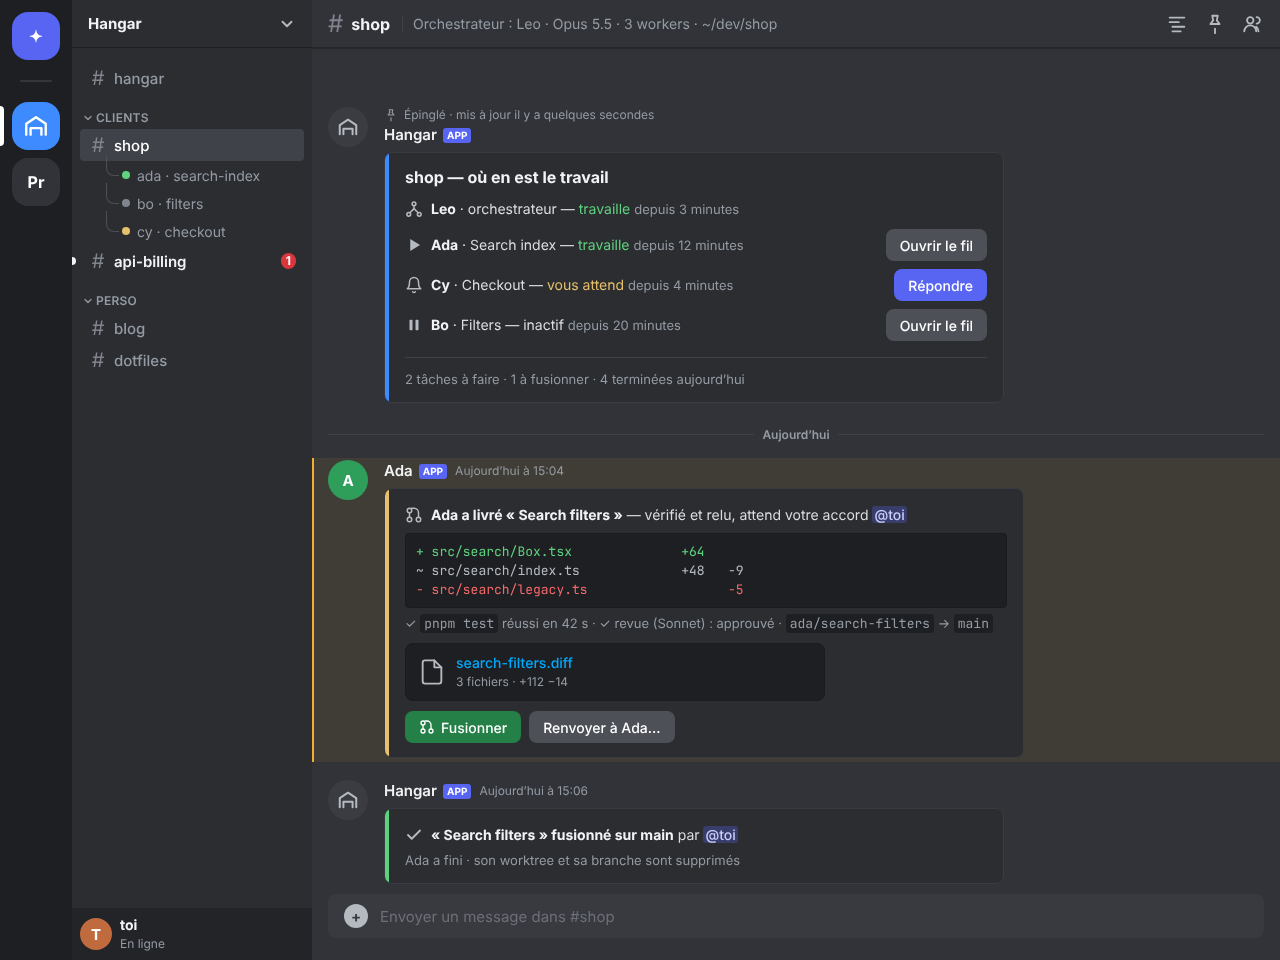
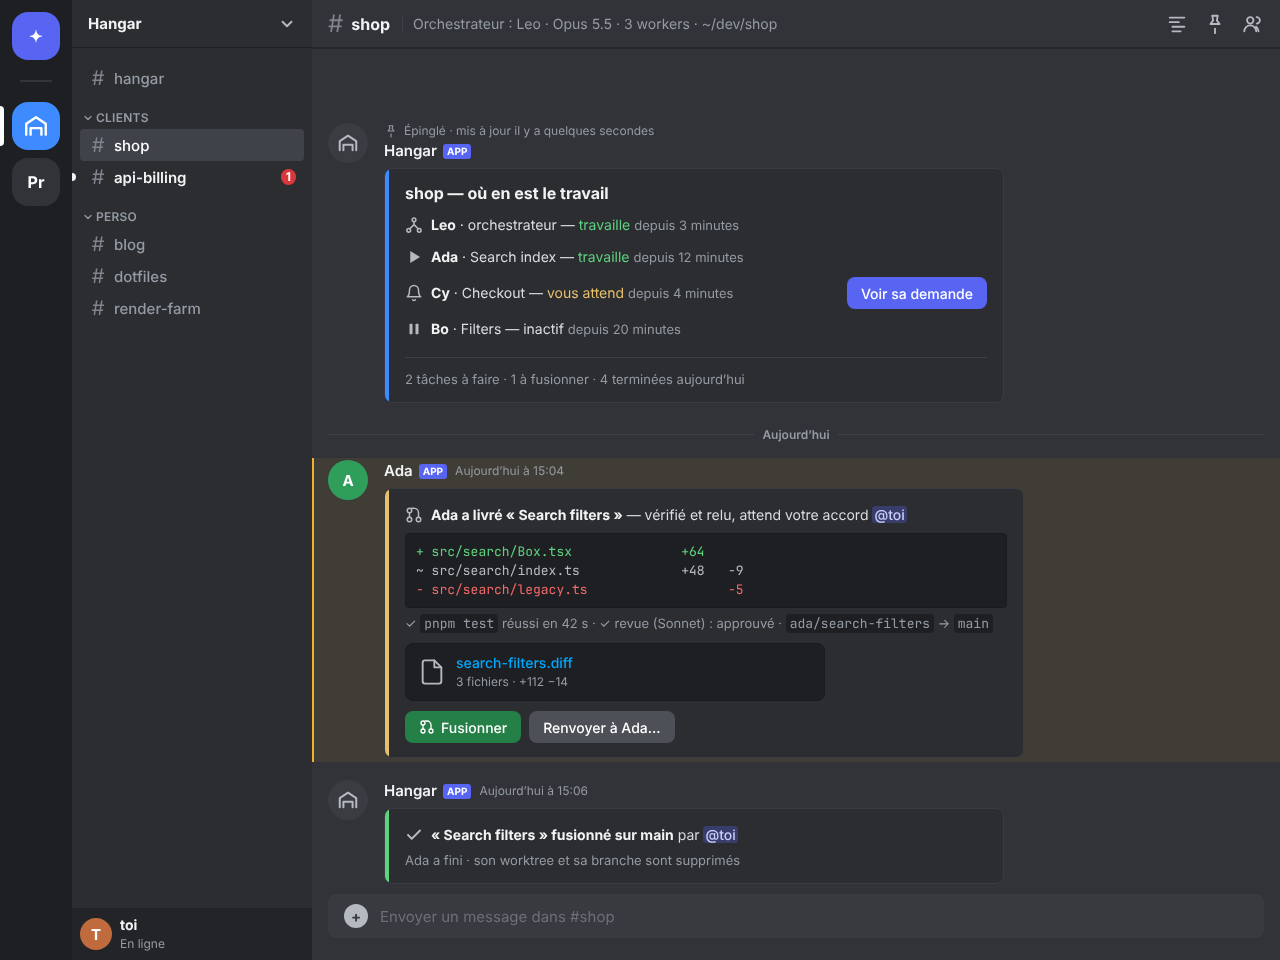
Docs: Discord connector without worker threads, for the person alone, with nodes
The person's decisions: no thread per worker (a line when one starts or
delivers, and its card in the workspace's channel when it needs the
person), only the paired account is heard, and workspaces on nodes are in.
The doc says what nodes need for it (taking back what waits in a node
pane's queue, then the settings of its panes) and that the bot answers
while Hangar runs on the PC: a Hangar wholly on a server needs the
orchestration on the node first. Mockups redrawn: no threads, a worker on
a node asking for a permission.

Claude-Session: https://claude.ai/code/session_018ioaVjWVuAUvvffqhFxb4X

diff --git a/docs/images/discord/mockups.html b/docs/images/discord/mockups.html
@@ -192,13 +192,11 @@ h2{font-size:20px}h3{font-size:16px}
       <div class="ch" style="margin-top:6px"><span class="hash">#</span>hangar</div>
       <div class="cat"><svg><use href="#i-chev"/></svg>Clients</div>
       <div class="ch" data-ch="shop"><span class="hash">#</span>shop</div>
-      <div class="th" data-th="ada"><span class="dot" style="background:var(--working)"></span>ada · search-index</div>
-      <div class="th" data-th="bo"><span class="dot" style="background:#80848e"></span>bo · filters</div>
-      <div class="th" data-th="cy"><span class="dot" style="background:var(--waiting)"></span>cy · checkout</div>
       <div class="ch" data-ch="billing"><span class="hash">#</span>api-billing</div>
       <div class="cat"><svg><use href="#i-chev"/></svg>Perso</div>
       <div class="ch" data-ch="blog"><span class="hash">#</span>blog</div>
       <div class="ch" data-ch="dotfiles"><span class="hash">#</span>dotfiles</div>
+      <div class="ch" data-ch="render"><span class="hash">#</span>render-farm</div>
     </div>
     <div class="me"><div class="av" style="background:#c06b3e">T</div><div><b>toi</b><small>En ligne</small></div></div>
   </div>
@@ -220,13 +218,11 @@ h2{font-size:20px}h3{font-size:16px}
       <div class="msg"><div class="av" style="background:#3a3c42;color:#b5bac1"><svg><use href="#i-hangar"/></svg></div><div class="body">
         <div class="name"><b>Hangar</b><span class="tag">APP</span><time>Aujourd’hui à 14:03</time></div>
         <div class="line"><span class="ic" style="color:var(--working)"><svg><use href="#i-play"/></svg></span><span class="w">Ada a démarré « Search index »</span></div>
-        <div class="thread"><div class="tn"><svg width="16" height="16" style="color:#b5bac1"><use href="#i-thread"/></svg>ada · search-index<small>14 messages ›</small></div>
-          <div class="last"><b style="color:#dbdee1">Ada</b> : Index branché sur <code>products.tags</code>, je lance les tests…</div></div>
       </div></div>
 
       <div class="msg cont"><div class="av"></div><div class="body">
         <div class="line"><span class="ic" style="color:var(--working)"><svg><use href="#i-check"/></svg></span><span class="w">Ada a livré « Search index » : fusionné, tâche terminée</span><span class="sub">3 fichiers · <span class="ok">+112</span> <span class="bad">−14</span></span></div>
-        <div class="line"><span class="ic" style="color:var(--waiting)"><svg><use href="#i-bell"/></svg></span><span class="w">Cy vous attend depuis 4 min dans <span style="color:var(--link)">cy · checkout</span></span></div>
+        <div class="line"><span class="ic" style="color:var(--waiting)"><svg><use href="#i-bell"/></svg></span><span class="w">Cy vous attend depuis 4 min : <span style="color:var(--link)">sa demande ↓</span></span></div>
         <div class="line"><span class="ic"><svg><use href="#i-bubble"/></svg></span><span class="w">Bo : « Les filtres gardent leurs paramètres d’URL. La recherche aussi ? »</span></div>
       </div></div>
 
@@ -386,9 +382,9 @@ h2{font-size:20px}h3{font-size:16px}
         <div class="box accent">
           <h3 style="margin-top:0">shop — où en est le travail</h3>
           <div class="section"><div class="t line"><span class="ic run"><svg><use href="#i-orch"/></svg></span><span class="w"><b style="color:var(--head)">Leo</b> · orchestrateur — <span class="run">travaille</span> <span class="sub">depuis 3 minutes</span></span></div></div>
-          <div class="section"><div class="t line"><span class="ic run"><svg><use href="#i-play"/></svg></span><span class="w"><b style="color:var(--head)">Ada</b> · Search index — <span class="run">travaille</span> <span class="sub">depuis 12 minutes</span></span></div><span class="btn">Ouvrir le fil</span></div>
-          <div class="section"><div class="t line"><span class="ic wait"><svg><use href="#i-bell"/></svg></span><span class="w"><b style="color:var(--head)">Cy</b> · Checkout — <span class="wait">vous attend</span> <span class="sub">depuis 4 minutes</span></span></div><span class="btn primary">Répondre</span></div>
-          <div class="section"><div class="t line"><span class="ic"><svg><use href="#i-pause"/></svg></span><span class="w"><b style="color:var(--head)">Bo</b> · Filters — inactif <span class="sub">depuis 20 minutes</span></span></div><span class="btn">Ouvrir le fil</span></div>
+          <div class="section"><div class="t line"><span class="ic run"><svg><use href="#i-play"/></svg></span><span class="w"><b style="color:var(--head)">Ada</b> · Search index — <span class="run">travaille</span> <span class="sub">depuis 12 minutes</span></span></div></div>
+          <div class="section"><div class="t line"><span class="ic wait"><svg><use href="#i-bell"/></svg></span><span class="w"><b style="color:var(--head)">Cy</b> · Checkout — <span class="wait">vous attend</span> <span class="sub">depuis 4 minutes</span></span></div><span class="btn primary">Voir sa demande</span></div>
+          <div class="section"><div class="t line"><span class="ic"><svg><use href="#i-pause"/></svg></span><span class="w"><b style="color:var(--head)">Bo</b> · Filters — inactif <span class="sub">depuis 20 minutes</span></span></div></div>
           <div class="sep"></div>
           <div class="sub">2 tâches à faire · 1 à fusionner · 4 terminées aujourd’hui</div>
         </div>
@@ -424,39 +420,26 @@ h2{font-size:20px}h3{font-size:16px}
 
 <!-- 6. Le fil d'un worker et les commandes -->
 <section class="shot" id="s6">
-<div class="window" data-sel="ada">
+<div class="window" data-sel="render">
   <div class="main">
-    <div class="top"><svg width="22" height="22" style="color:#80848e"><use href="#i-thread"/></svg><b>ada · search-index</b><span class="topic">Tâche « Search index » · branche ada/search-index · Sonnet 5.5</span></div>
+    <div class="top"><span class="hash">#</span><b>render-farm</b><span class="topic">Orchestrateur : Nova · Sonnet 5.5 · 2 workers · sur le node gpu-box · ~/render</span></div>
     <div class="feed">
       <div class="msg"><div class="av" style="background:#3a3c42;color:#b5bac1"><svg><use href="#i-hangar"/></svg></div><div class="body">
-        <div class="name"><b>Hangar</b><span class="tag">APP</span><time>Aujourd’hui à 14:03</time></div>
-        <div class="line"><span class="ic run"><svg><use href="#i-play"/></svg></span><span class="w">Ada a démarré « Search index », demandé par Leo</span></div>
+        <div class="name"><b>Hangar</b><span class="tag">APP</span><time>Aujourd’hui à 16:40</time></div>
+        <div class="line"><span class="ic run"><svg><use href="#i-play"/></svg></span><span class="w">Kai a démarré « Bake textures »</span></div>
+        <div class="line"><span class="ic run"><svg><use href="#i-play"/></svg></span><span class="w">Mia a démarré « Encode previews »</span></div>
       </div></div>
-      <div class="msg"><div class="av" style="background:#2f9e5b">A</div><div class="body">
-        <div class="name"><b>Ada</b><span class="tag">APP</span><time>Aujourd’hui à 14:09</time></div>
-        <div class="text">Index branché sur <code>products.tags</code>. Les titres sont normalisés (accents, casse) avant l’indexation, pour que « Écran » trouve « ecran ».</div>
-        <div class="box done">
-          <div class="line"><span class="sub">12 actions · 6 minutes</span></div>
-          <div class="line"><span class="ic"><svg><use href="#i-search"/></svg></span><span class="w">Cherché « products.tags » · 8 résultats</span></div>
-          <div class="line"><span class="ic"><svg><use href="#i-edit"/></svg></span><span class="w">Modifié <code>src/search/index.ts</code> et 2 autres fichiers</span></div>
-          <div class="line"><span class="ic ok"><svg><use href="#i-term"/></svg></span><span class="w"><code>pnpm test</code></span><span class="st ok">réussi</span></div>
+      <div class="msg ping"><div class="av" style="background:#b4570f">K</div><div class="body">
+        <div class="name"><b>Kai</b><span class="tag">APP</span><time>Aujourd’hui à 16:52</time></div>
+        <div class="box waiting">
+          <div class="line"><span class="ic wait"><svg><use href="#i-bell"/></svg></span><span class="w"><b style="color:var(--head)">Kai demande à lancer une commande</b> <span class="mention">@toi</span></span></div>
+          <pre>sudo apt-get install -y libvulkan1</pre>
+          <div class="sub">Worker de « Bake textures » · sur <code>gpu-box</code> · attend depuis 1 minute</div>
+          <div class="row"><span class="btn success"><svg><use href="#i-check"/></svg>Autoriser</span><span class="btn danger">Refuser</span></div>
         </div>
       </div></div>
-      <div class="msg"><div class="av" style="background:#c06b3e">T</div><div class="body">
-        <div class="name"><b>toi</b><time>Aujourd’hui à 14:12</time></div>
-        <div class="text">Pense aux noms de marque avec un tiret</div>
-        <div class="reacts"><span class="react">✅ <b>1</b></span></div>
-      </div></div>
     </div>
-    <div class="popup">
-      <div class="ph"><div class="av" style="background:#3a3c42;color:#b5bac1"><svg width="12" height="12"><use href="#i-hangar"/></svg></div>Hangar</div>
-      <div class="cmd sel"><b>/stop</b><span>Arrête le tour en cours d’Ada</span><i>Hangar</i></div>
-      <div class="cmd"><b>/model</b><span>Opus · Sonnet · Haiku · Fable</span><i>Hangar</i></div>
-      <div class="cmd"><b>/effort</b><span>Faible · Moyen · Élevé · Très élevé · Max</span><i>Hangar</i></div>
-      <div class="cmd"><b>/plan</b><span>Planifier d’abord : propose un plan avant de modifier</span><i>Hangar</i></div>
-      <div class="cmd"><b>/statut</b><span>Où en est ce pane, en privé</span><i>Hangar</i></div>
-    </div>
-    <div class="composer typed"><span class="plus">+</span>/</div>
+    <div class="composer"><span class="plus">+</span>Envoyer un message dans #render-farm</div>
   </div>
 </div>
 </section>

diff --git a/docs/native/discord-connector.md b/docs/native/discord-connector.md
@@ -2,9 +2,11 @@
 
 A Discord server as another surface of Hangar, for whoever would rather not
 open the app: a category per folder, a channel per workspace (the
-conversation with its orchestrator, as the chat view has it), a thread per
-worker. A bot of the person's own reports what happens and carries what the
-person says and decides back to the panes. Nothing here is built yet: this is
+conversation with its orchestrator, as the chat view has it). The workers
+stay out of sight: a line when one starts or delivers, and their card when
+they need the person. A bot of the person's own reports what happens and
+carries what the person says and decides back to the panes; only the person
+is heard. Workspaces on nodes work the same. Nothing here is built yet: this is
 the design, the research it rests on, and mockups of every card.
 
 Experiment: `discord-connector`.
@@ -20,24 +22,42 @@ does, and is one more client of `mobile::desk`: the calls the chat view and
 the phone already make (read the conversation, send, answer a question,
 allow a permission, approve a plan, queue and take back, stop, land or send
 back a delivery). Every answer goes through the hangar-bridge mod as the
-chat view's do. A Hangar with no window at all (`hangar-ai --headless` on a
-server) is a later, separate project.
+chat view's do.
+
+### Nodes
+
+A workspace on a node is a channel like any other: the desktop already
+reads its conversation, its board and its deliveries through the node, and
+`mobile::desk` reaches its panes the same way. What the connector needs from
+nodes:
+
+- taking a prompt back from the queue of a pane on a node (`Port::unqueue`
+  refuses it today: a route on the node API, `bridge_cancel` there);
+- with that, the queue and the model / effort / plan settings for such panes
+  (the chat view leaves them out for now);
+- answers to a node's panes are typed as keys (the held asks live in the
+  node's core); answering them through the node's mod is a later step.
+
+The desktop drives its nodes over SSH, and the orchestration (events to the
+orchestrator, workers started, state of the workspaces) runs in the desktop.
+So the bot answers while Hangar runs on the PC, window closed or not. A
+Hangar entirely on a server, the PC off, needs the orchestration on the node
+first (nodes.md, "Later"); the connector is written against `mobile::desk`
+so that it can move there with it.
 
 ## Mapping
 
 | Hangar | Discord |
 |---|---|
 | Folder | Category (up to 50 channels each) |
-| Workspace | Text channel: the orchestrator's conversation |
-| Worker / session | Public thread in that channel, started from its "started" line |
+| Workspace, local or on a node | Text channel: the orchestrator's conversation |
+| Worker | Nothing of its own: a line when it starts or delivers, and its permission, question or plan card in the workspace's channel when it needs the person, under its name |
 | Agent (Leo, Ada…) | The bot's own webhook in the channel, with the agent's name and a generated avatar per message |
 | Hangar's news | Short lines with Hangar's icons, as in the chat view |
 | State of the workspace | One pinned dashboard card per channel, edited as it changes |
 
-To decide with the person: this mapping or category = workspace and a
-channel per pane; who may talk (the paired account only, or a list or a
-role, who could then approve commands on the PC); whether the headless mode
-comes with it.
+Decided with the person: no thread per worker; only the paired account is
+heard; workspaces on nodes are in.
 
 ## Messages: Components V2
 
@@ -102,17 +122,20 @@ lines green and `-` lines red), the check and the review, the branches, the
 a green one-line card.
 
 **The dashboard.** Pinned, edited at most every ~5 s: the orchestrator and
-each worker with its state, since when, and the button that matters (Open
-the thread, Answer), and the counts of the board.
+each worker with its state and since when, a link to the card of whoever
+waits on the person, and the counts of the board.
 
 ![Delivery and dashboard](../images/discord/5-delivery-dashboard.png)
 
-**A worker's thread.** Its own turns and answers; what the person writes
-there goes to that worker. Slash commands, registered on the guild only (so
-they show at once): `/stop`, `/model`, `/effort`, `/plan`, `/status`
-(ephemeral).
+**A worker that needs the person.** Its card in the workspace's channel,
+under its own name, saying which task it works on and, on a node, which
+one; answered there like the orchestrator's.
 
-![A worker's thread and the commands](../images/discord/6-worker-thread-commands.png)
+![A worker on a node that needs the person](../images/discord/6-node-worker.png)
+
+**Commands.** Registered on the guild only (so they show at once):
+`/stop`, `/model`, `/effort`, `/plan`, `/status` (ephemeral), for the
+channel's orchestrator.
 
 ## What the person writes
 
@@ -120,7 +143,8 @@ Read with the `MESSAGE_CONTENT` intent (privileged; a toggle in the
 Developer Portal under 10,000 users). Sent while the agent works, it waits
 in the bridge queue: the bot reacts ⏳, then ✅ when it is taken. Deleting
 the Discord message takes it back from the queue; editing it changes what
-waits. Only the paired account is heard.
+waits. Only the paired account is heard: anyone else's messages are
+ignored, and their clicks get an ephemeral "only … can answer here".
 
 ## Interactions
 
@@ -141,10 +165,9 @@ means something.
 - The person creates the Discord application and its bot, and the server: bots
   cannot create guilds since July 2025. Hangar gives the invite link with the
   scopes `bot applications.commands` and the permissions it needs (Manage
-  Channels, Manage Webhooks, Manage Threads, Send Messages, Send Messages in
-  Threads, Create Public Threads, Embed Links, Attach Files, Read Message
-  History, Add Reactions, Use External Emojis, Pin Messages, a separate
-  permission since February 2026).
+  Channels, Manage Webhooks, Send Messages, Embed Links, Attach Files, Read
+  Message History, Add Reactions, Use External Emojis, Pin Messages, a
+  separate permission since February 2026).
 - The bot token stays on the PC with Hangar's other secrets.
 - Pairing: Hangar shows a code, the person sends it to the bot; only that
   Discord account is heard afterwards. A private server is recommended: a
@@ -160,11 +183,9 @@ means something.
   10 minutes ban the IP for a while.
 - No streaming: a message per answer of Claude's, the turn card edited in
   batches.
-- Renaming a channel or a thread is heavily limited (about twice per
+- Renaming a channel is heavily limited (about twice per
   10 minutes, community knowledge, not in the docs): no state in names; the
   state lives in the cards and the dashboard.
-- Threads archive after inactivity (60, 1440, 4320 or 10080 minutes); a
-  webhook message with `thread_id` unarchives its thread.
 - Webhook names cannot contain `clyde` or `discord`; a webhook the
   application created can send interactive components, others cannot.
 
@@ -180,10 +201,12 @@ Steps, each behind the experiment:
 
 1. Settings: the bot token, the guild, pairing the person's account.
 2. A channel per workspace: the orchestrator's conversation both ways, and
-   the permission, question and plan cards.
-3. Threads per worker, deliveries with Land / Send back.
+   the permission, question and plan cards, the workers' included.
+3. Deliveries with Land / Send back; the queue (⏳, delete, edit).
 4. Following the structure (folders, workspaces created, renamed, closed),
    the dashboard and the slash commands.
+5. Nodes: taking back what waits in a node pane's queue, and the settings
+   of its panes.
 
 Tested against a fake gateway and HTTP server; a real run needs the person's
 bot.
@@ -194,7 +217,7 @@ The official documentation, read from
 [discord/discord-api-docs](https://github.com/discord/discord-api-docs)
 (commit `36adecb`, November 10, 2026): `components/reference`,
 `change-log`, `resources/message`, `resources/webhook`, `resources/channel`,
-`topics/threads`, `topics/rate-limits`, `interactions/receiving-and-responding`.
+`topics/rate-limits`, `interactions/receiving-and-responding`.
 
 ## Mockups
 
